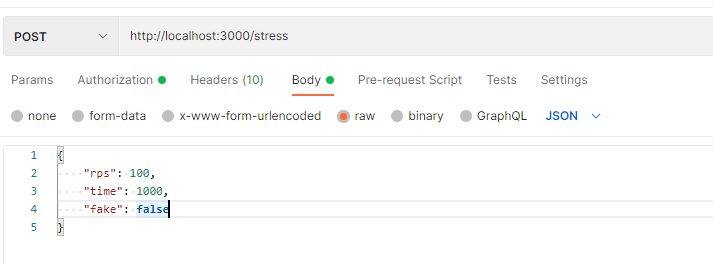
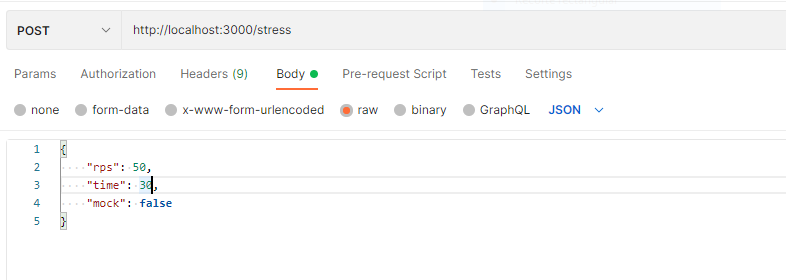
update command fake to mock

diff --git a/app/controllers/stress_controller.rb b/app/controllers/stress_controller.rb
@@ -8,7 +8,7 @@ class StressController < ApplicationController
               "#{generate_task_param('file', file_name)}"\
               "#{generate_task_param('rps', params[:rps])}"\
               "#{generate_task_param('time', params[:time])}"\
-              "#{generate_task_param('fake', params[:fake])}"\
+              "#{generate_task_param('mock', params[:mock])}"\
 
     Thread.new { system(command) }
     render plain: "Task created, files will be named #{file_name}"

diff --git a/lib/tasks/README.md b/lib/tasks/README.md
@@ -28,29 +28,29 @@ _It will clear and generate new data based on the args. When the command finishe
 
 This is the main task and is used to stress the apiroom endpoint. This task will generate two files, one is an HTML file and the other a JSON file. Both will have the same information. while the HTML will be used to display the data using a line chart, the JSON is just the raw data.
 
-This task will perform concurrent POST requests to the apiroom endpoint in _ESTOOL_APIROOM_ENDPOINT_ environment variable. It will accept four arguments: file, rps, time and fake.
+This task will perform concurrent POST requests to the apiroom endpoint in _ESTOOL_APIROOM_ENDPOINT_ environment variable. It will accept four arguments: file, rps, time and mock.
 
 
 
 * **file**: the name of the output file in which the stress data will be stored (without extension). It will generate two files with this name but a different extension (HTML and JSON).
 * **rps**: also known as requests per second. This will tell the task to perform N concurrent requests every second.
 * **time**: the number of seconds to perform the stress
-* **fake**: a boolean indicating whether to use fake data or reports from the database. If present, a random hash and id will be generated and used. If not present, reports from the database will be used and updated with the corresponding transaction_id.
-* **help: **shows the help message for each argument.
+* **mock**: a boolean indicating whether to use mock data or reports from the database. If present, a random hash and id will be generated and used. If not present, reports from the database will be used and updated with the corresponding transaction_id.
+* **help**: shows the help message for each argument.
 
 Here is an example of the command: 
 ```
-rake stress:apiroom -- --rps 50 --time 30 --file result_50rps_30time --fake
+rake stress:apiroom -- --rps 50 --time 30 --file result_50rps_30time --mock
 ```
 
-This will use fake data (random hash and id) due to the use of the **fake** argument. This example will perform the stress for 30 seconds and each second it will send 50 concurrent requests for a total of 50*30 = 1500 requests. After the stress test, metrics will be stored in **result_50rps_30time.html **and **result_50rps_30time.json** which can be accessed through the mounted folder in **_/var/lib/dokku/data/storage/eschooltul/results/_**.
+This will use mock data (random hash and id) due to the use of the **mock** argument. This example will perform the stress for 30 seconds and each second it will send 50 concurrent requests for a total of 50*30 = 1500 requests. After the stress test, metrics will be stored in **result_50rps_30time.html** and **result_50rps_30time.json** which can be accessed through the mounted folder in **_/var/lib/dokku/data/storage/eschooltul/results/_**.
 
 Finally, as requested, we have created a controller with basic auth to launch this task.
 
 
 ![alt_text](images/image1.png "image_tooltip")
 
-Just change localhost and port to point to the machine. The controller will generate a pair of files called **result_&lt;timestamp> **by itself so no file param is needed.
+Just change localhost and port to point to the machine. The controller will generate a pair of files called **result_&lt;timestamp>** by itself so no file param is needed.
 
 ![alt_text](images/image2.png "image_tooltip")
 
@@ -107,7 +107,7 @@ Once inside, connect to Postgresql:
 
 
 ```
-psql -U postgres. 
+psql -U postgres
 ```
 
 
@@ -115,7 +115,7 @@ Then select the correct database:
 
 
 ```
-\c eschooltul_database. 
+\c eschooltul_database 
 ```
 
 
@@ -124,7 +124,7 @@ Now we can do queries to select the user or list reports to get the ID.
 
 ## Retrieving the result
 
-Once the stress test finishes and result files are created we can download them into our computer to visualize the HTML or the JSON using **scp **command: 
+Once the stress test finishes and result files are created we can download them into our computer to visualize the HTML or the JSON using **scp** command: 
 
 
 ```
